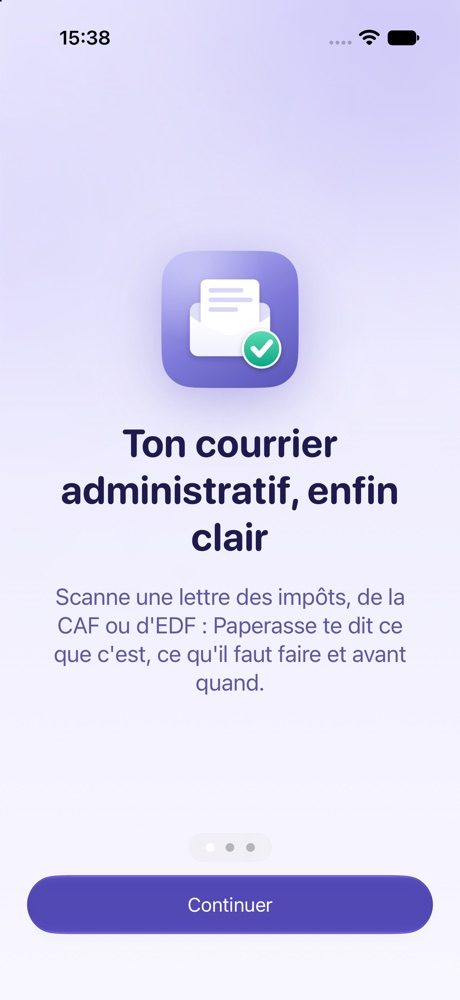
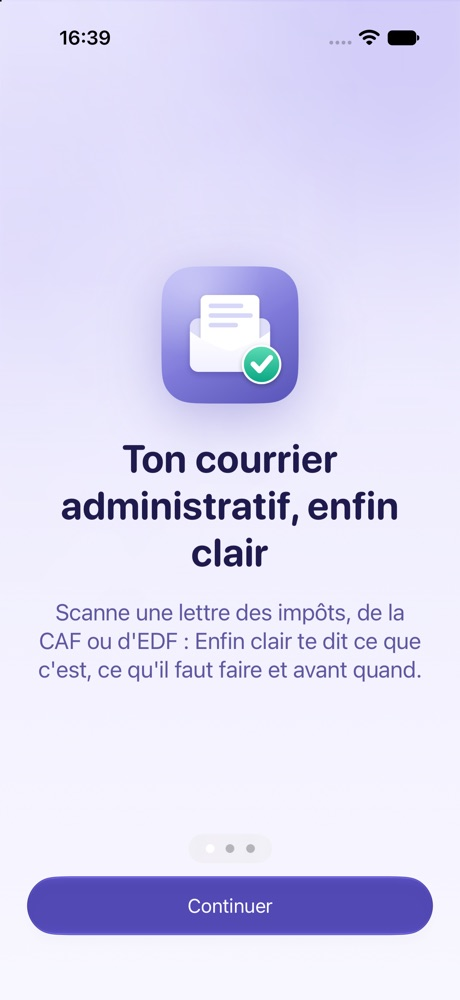
Site : capture de bienvenue avec le nom Enfin clair

diff --git a/index.html b/index.html
@@ -13,7 +13,7 @@
   <meta property="og:image" content="https://enfinclair.github.io/images/partage.jpg">
   <meta property="og:type" content="website">
   <meta name="twitter:card" content="summary_large_image">
-  <link rel="stylesheet" href="style.css?v=3">
+  <link rel="stylesheet" href="style.css?v=4">
 </head>
 <body>
   <div class="wrap">
@@ -78,7 +78,7 @@
         <p class="section-lead">Une app calme et lisible, en mode clair comme en mode sombre.</p>
         <div class="shots">
           <figure>
-            <img src="images/onboarding.jpg" alt="Écran de bienvenue d'Enfin clair" loading="lazy" width="500" height="1087">
+            <img src="images/onboarding.jpg?v=2" alt="Écran de bienvenue d'Enfin clair" loading="lazy" width="500" height="1087">
             <figcaption>Bienvenue</figcaption>
           </figure>
           <figure>

diff --git a/confidentialite.html b/confidentialite.html
@@ -6,7 +6,7 @@
   <title>Confidentialité · Enfin clair</title>
   <meta name="description" content="Politique de confidentialité de l'app Enfin clair et de son site.">
   <link rel="icon" href="images/favicon.png">
-  <link rel="stylesheet" href="style.css?v=3">
+  <link rel="stylesheet" href="style.css?v=4">
 </head>
 <body>
   <div class="wrap">

diff --git a/mentions-legales.html b/mentions-legales.html
@@ -5,7 +5,7 @@
   <meta name="viewport" content="width=device-width, initial-scale=1">
   <title>Mentions légales · Enfin clair</title>
   <link rel="icon" href="images/favicon.png">
-  <link rel="stylesheet" href="style.css?v=3">
+  <link rel="stylesheet" href="style.css?v=4">
 </head>
 <body>
   <div class="wrap">
